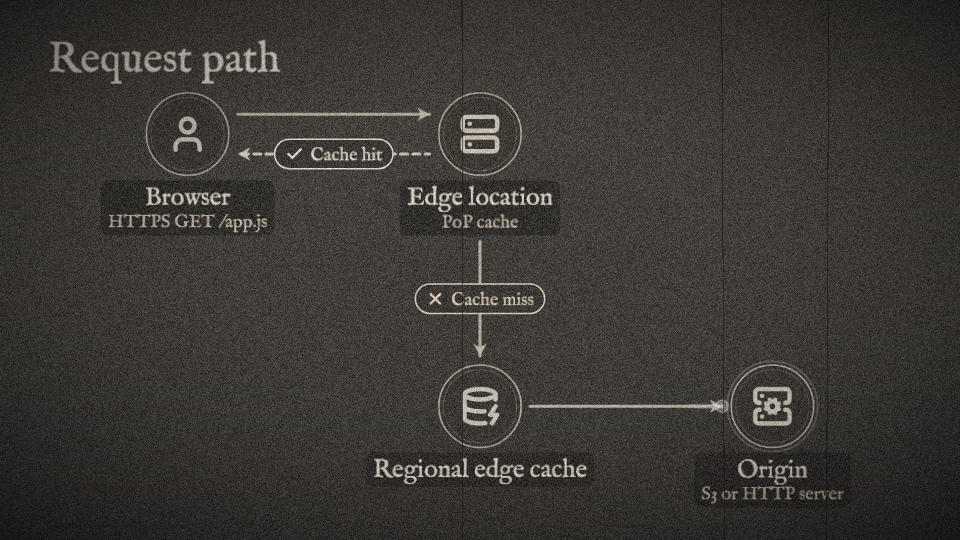
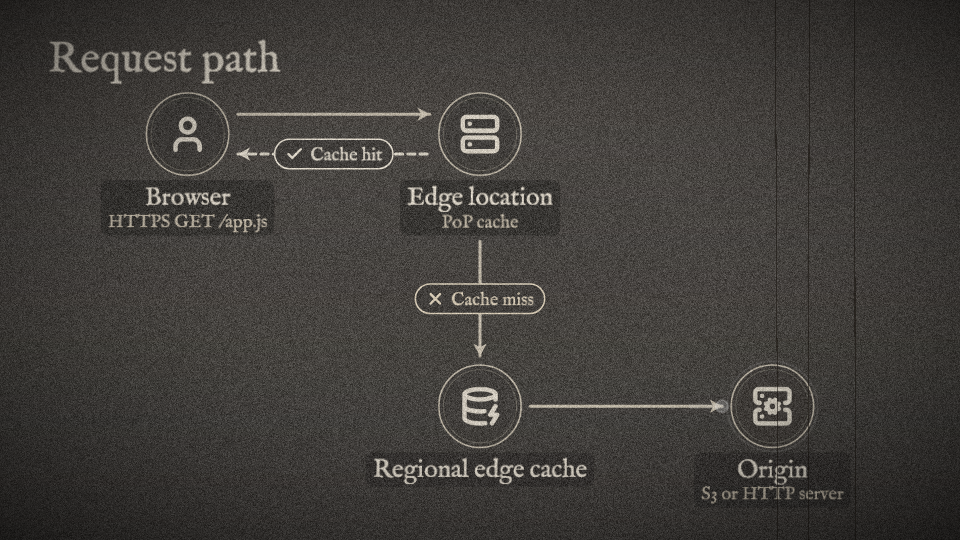
Style fixes: silent-film intertitles, tilted paper with curled corners, woodcut renamed engraving print
- Silent film: headings open each scene on a 1.5 s intertitle (black card, ornate double border, IM FELL), taken from
  the opening pause so narration stays in sync; kinetic scenes are drawn as intertitles
- Paper craft: each card tilts by up to 1.5 degrees (deterministic), with a curled-corner shadow and visible fibres
- Woodcut: carved band with gouge cuts and cut-line hatching tried; it reads as a framed engraving, not a woodcut,
  so the style is renamed engraving-print
- HD pixel sprite 3D is marked as requiring a 3D model (enforced for the Creative Director in Stage 3)

diff --git a/exposit/render/styles.py b/exposit/render/styles.py
@@ -95,7 +95,7 @@ def bg_pixel(c, W, H):
         c.drawRect(skia.Rect.MakeXYWH(x, y, 8, 8), D.paint(col("#FFF1E8" if r.random() > 0.6 else "#83769C")))
 
 
-def bg_woodcut(c, W, H):
+def bg_engraving(c, W, H):
     _bg_solid(c, "#EEE4CF", W, H)
     p = D.paint(col("#2A1F17", 0.12), 1.6)
     for i in range(-int(H), int(W), 14):                      # engraved hatching in the margins
@@ -153,9 +153,35 @@ def tex_hatch(cc, w, h):
 
 def tex_paper(cc, w, h):
     r = _rng(int(w) * 7 + int(h))
-    for _ in range(int(w * h / 900)):
+    for _ in range(int(w * h / 420)):                         # visible paper fibres
         x, y = r.random() * w, r.random() * h
-        cc.drawLine(x, y, x + r.random() * 18 - 9, y + r.random() * 6 - 3, D.paint(col("#8A7A60", 0.10), 1))
+        ang = r.random() * math.pi
+        ln = 8 + r.random() * 22
+        cc.drawLine(x, y, x + math.cos(ang) * ln, y + math.sin(ang) * ln, D.paint(col("#8A7A60", 0.20), 1.1))
+
+
+def tex_engraving(cc, w, h):
+    """Carved look: a thick ink band inside the edge with cream gouge cuts, and cut-line hatching in one corner."""
+    ink, paper = "#1A1410", "#F5EDDA"
+    band = 16
+    cc.drawRect(skia.Rect.MakeWH(w, band), D.paint(col(ink)))
+    cc.drawRect(skia.Rect.MakeXYWH(0, h - band, w, band), D.paint(col(ink)))
+    cc.drawRect(skia.Rect.MakeWH(band, h), D.paint(col(ink)))
+    cc.drawRect(skia.Rect.MakeXYWH(w - band, 0, band, h), D.paint(col(ink)))
+    r = _rng(int(w) * 3 + int(h))
+    cut = D.paint(col(paper), 2.6)
+    for x in np.arange(10, w - 10, 13):                       # gouge marks across the top and bottom bands
+        ln = 6 + r.random() * 8
+        cc.drawLine(float(x), 3, float(x + r.random() * 4 - 2), 3 + ln, cut)
+        cc.drawLine(float(x), h - 3, float(x + r.random() * 4 - 2), h - 3 - ln, cut)
+    for y in np.arange(10, h - 10, 13):
+        ln = 6 + r.random() * 8
+        cc.drawLine(3, float(y), 3 + ln, float(y + r.random() * 4 - 2), cut)
+        cc.drawLine(w - 3, float(y), w - 3 - ln, float(y + r.random() * 4 - 2), cut)
+    p = D.paint(col(ink, 0.55), 2.2)                          # cut-line hatching: curved strokes, bottom-right corner
+    for k in range(9):
+        rr = skia.Rect.MakeXYWH(w - 40 - k * 16, h - 40 - k * 14, (k + 1) * 32, (k + 1) * 28)
+        cc.drawArc(rr, 180, 90, False, p)
 
 
 def tex_cardboard(cc, w, h):
@@ -364,9 +390,12 @@ def post_process(arr: np.ndarray, ops: tuple, frame: int) -> np.ndarray:
 # ================================================================== the style packs
 class Style:
     def __init__(self, name: str, tier: int, status: str, best_for: str, tpl: Template | None, post: tuple = (),
-                 fps: int | None = None, jitter: float = 0.0, effects: tuple = (), why_planned: str = ""):
+                 fps: int | None = None, jitter: float = 0.0, effects: tuple = (), why_planned: str = "",
+                 intertitles: bool = False, requires: str | None = None):
         self.name, self.tier, self.status, self.best_for, self.tpl = name, tier, status, best_for, tpl
         self.post, self.fps, self.jitter, self.effects, self.why_planned = post, fps, jitter, effects, why_planned
+        self.intertitles = intertitles      # silent film: headings become 1.5 s intertitle cards; kinetic scenes are drawn as one
+        self.requires = requires            # offered only for videos with this content (e.g. a 3D model)
         if tpl is not None:
             tpl.style = self
 
@@ -444,10 +473,10 @@ _add(Style("pixel-art", 1, "ready", "networking basics, protocols for beginners,
                 card=_card("#29366F", "#FFF1E8", 4.0, 0), icon=dict(style="solid", color="#1D2B53", badge="#FFA300", ring="#FFF1E8", stroke=3.0, shape="square"),
                 conn=dict(color="#FFF1E8", width=8.0, active="#FFA300", glow=False, dash=(16, 16))),
            post=(("pixelate", 5, "pico8"),)))
-_add(Style("woodcut", 1, "ready", "history, principles, protocols with a long lineage",
-           _tpl("woodcut", _T("#EEE4CF", "#EEE4CF", "#F5EDDA", "#1A1410", "#1A1410", "#3E342B", "#8E1F20", red="#8E1F20", green="#2E5E2A"),
-                dark=False, bg_fn=bg_woodcut, family="IMFell", font_scale=1.12, texture=tex_hatch,
-                card=_card("#F5EDDA", "#1A1410", 3.0, 2), icon=dict(style="outline", color="#1A1410", badge=None, ring="#1A1410", stroke=2.8),
+_add(Style("engraving-print", 1, "ready", "history, principles, protocols with a long lineage",
+           _tpl("engraving-print", _T("#EEE4CF", "#EEE4CF", "#F5EDDA", "#1A1410", "#1A1410", "#3E342B", "#8E1F20", red="#8E1F20", green="#2E5E2A"),
+                dark=False, bg_fn=bg_engraving, family="IMFell", font_scale=1.12, texture=tex_engraving,
+                card=_card("#F5EDDA", "#1A1410", 6.0, 2), icon=dict(style="outline", color="#1A1410", badge=None, ring="#1A1410", stroke=3.2),
                 conn=dict(color="#1A1410", width=6.0, active="#8E1F20", glow=False, dash=(14, 10))),
            post=(("paper", 0.14), ("grain", 0.04))))
 _add(Style("silent-film", 1, "ready", "history of a technology, origin stories, 'how it used to work'",
@@ -456,11 +485,12 @@ _add(Style("silent-film", 1, "ready", "history of a technology, origin stories, 
                 dark=True, bg_fn=bg_silent, family="IMFell", font_scale=1.12,
                 card=_card("#1F1C19", "#D8CDB8", 3.0, 6), icon=dict(style="outline", color="#F2E9D8", badge=None, ring="#D8CDB8", stroke=2.6),
                 conn=dict(color="#D8CDB8", width=6.0, active="#FFFFFF", glow=False, dash=(14, 10))),
-           post=(("grain", 0.09), ("flicker", 0.07), ("scratches", 3), ("vignette", 0.6)), fps=18))   # palette is sepia already
+           post=(("grain", 0.09), ("flicker", 0.07), ("scratches", 3), ("vignette", 0.6)), fps=18,   # palette is sepia already
+           intertitles=True))
 _add(Style("paper-craft", 1, "ready", "architecture overviews, layered systems",
            _tpl("paper-craft", _T("#F4E8D8", "#F4E8D8", "#FFF8EE", "#B88B6A", "#2B211A", "#45372B", "#A63E1F", blue="#2F6F9E", teal="#2E8A7E"),
                 dark=False, bg_fn=bg_papercraft, texture=tex_paper,
-                card=_card("#FFF8EE", "#E6D2BC", 1.0, 18, shadow=0.35, shadow_color="#5A3A20"),
+                card=_card("#FFF8EE", "#E6D2BC", 1.0, 10, shadow=0.35, shadow_color="#5A3A20", tilt=1.5, curl=True),
                 icon=dict(style="pastel", color="#2B211A", badge=None, ring="#B88B6A", stroke=2.6),
                 conn=dict(color="#8C5E3C", width=6.0, active="#C24E2B", glow=False, dash=(16, 13))),
            post=(("paper", 0.08),)))
@@ -490,13 +520,47 @@ _add(Style("hd-pixel-sprite-3d", 2, "ready", "hardware and infrastructure with a
                 dark=True, bg_fn=bg_pixel, glow=True, family_bold="Pixel", bold_scale=0.6,
                 card=_card("#17204A", "#5EE2FF", 3.0, 0), icon=dict(style="solid", color="#FFFFFF", badge="#3A4C9A", ring="#5EE2FF", stroke=3.0, shape="square"),
                 conn=dict(color="#8FA2FF", width=8.0, active="#5EE2FF", glow=False, dash=(16, 16))),
-           post=(("pixelate", 4, 8),)))
+           post=(("pixelate", 4, 8),), requires="model_3d"))
 for _n, _why in (("stick-figure-story", "needs posed, rigged characters with readable gestures; a style pack alone cannot draw them"),
                  ("paper-cutout-puppet", "needs jointed cut-out characters; not built"),
                  ("hand-puppet-theatre", "needs puppet characters on a stage; a frame and curtain alone would not be honest")):
     _add(Style(_n, 2, "planned", "incidents and postmortems told as stories", None, why_planned=_why))
 
 READY = tuple(n for n, s in STYLES.items() if s.status == "ready")
+INTERTITLE_SECONDS = 1.5
+
+
+def draw_intertitle(c, tpl, text: str, W: float, H: float, a: float = 1.0, show_text: bool = True) -> None:
+    """A silent-film intertitle: a black card with an ornate thin double border and corner flourishes; the text in
+    IM FELL, centred. The card is a cached sprite; the text is drawn on top."""
+    inset = 70.0 if H > W else 150.0
+
+    def card(cc):
+        cc.drawColor(col("#0B0907"))
+        x0, y0, x1, y1 = inset, inset * (1.6 if H > W else 0.7), W - inset, H - inset * (1.6 if H > W else 0.7)
+        line = D.paint(col("#E9DFC9"), 2.2)
+        cc.drawRect(skia.Rect.MakeLTRB(x0, y0, x1, y1), line)
+        cc.drawRect(skia.Rect.MakeLTRB(x0 + 14, y0 + 14, x1 - 14, y1 - 14), D.paint(col("#E9DFC9"), 1.2))
+        for (cx, cy, sx, sy) in ((x0, y0, 1, 1), (x1, y0, -1, 1), (x0, y1, 1, -1), (x1, y1, -1, -1)):
+            p = skia.Path()                                    # a corner flourish: a small scroll and a diamond
+            p.moveTo(cx + sx * 14, cy + sy * 46)
+            p.cubicTo(cx + sx * 40, cy + sy * 46, cx + sx * 46, cy + sy * 40, cx + sx * 46, cy + sy * 14)
+            cc.drawPath(p, D.paint(col("#E9DFC9"), 2))
+            d = skia.Path()
+            d.moveTo(cx + sx * 30, cy + sy * 22); d.lineTo(cx + sx * 36, cy + sy * 30)
+            d.lineTo(cx + sx * 30, cy + sy * 38); d.lineTo(cx + sx * 24, cy + sy * 30); d.close()
+            cc.drawPath(d, D.paint(col("#E9DFC9")))
+        mid = (y0 + y1) / 2
+        for yy in (y0 + (mid - y0) * 0.35, y1 - (y1 - mid) * 0.35):   # thin rules above and below the text
+            cc.drawLine(W / 2 - 120, yy, W / 2 + 120, yy, D.paint(col("#E9DFC9"), 1.4))
+            cc.drawCircle(W / 2, yy, 4, D.paint(col("#E9DFC9")))
+    D.sprite(c, ("intertitle", int(W), int(H)), 0, 0, W, H, card, a)
+    if show_text and text:
+        rows, sz = D.fit_block(text, W - 2 * inset - 120, 4, 96 if H > W else 88, 56, "Regular")
+        total = len(rows) * sz * 1.18
+        y = H / 2 - total / 2 + sz * 0.8
+        for j, r in enumerate(rows):
+            D.draw_text(c, r, W / 2, y + j * sz * 1.18, sz, col("#F2E9D8", a), "Regular", "center")
 PLANNED = tuple(n for n, s in STYLES.items() if s.status == "planned")
 
 

diff --git a/exposit/render/engine.py b/exposit/render/engine.py
@@ -116,6 +116,11 @@ class Scene:
         self.tpl = design.template(spec.get("theme") or theme)
         self.T = self.tpl.T
         self.pad0 = float(spec.get("pad_start", 0.4))
+        st = styles.style_of(self.tpl)
+        self.intertitle = None                                 # silent film: the heading on a card before the scene
+        if st and st.intertitles and spec.get("heading") and spec.get("treatment") != "kinetic":
+            self.intertitle = spec["heading"]
+            self.pad0 = max(self.pad0, styles.INTERTITLE_SECONDS + 0.3)
         self.pad1 = float(spec.get("pad_end", 0.5))
         self.dur = self.pad0 + float(timing.get("duration", 3.0)) + self.pad1
         self.motion = float(spec.get("motion_scale", 1.0))
@@ -490,6 +495,9 @@ class Kinetic(Treatment):
         if self.portrait:
             return self.draw_portrait(c, t)
         sc, T = self.sc, self.sc.T
+        st = styles.style_of(sc.tpl)
+        if st and st.intertitles:
+            styles.draw_intertitle(c, sc.tpl, "", 1920, 1080, 1.0, False)
         ui = sc.spec.get("ui")
         y0 = 330
         if ui:
@@ -528,15 +536,19 @@ class Kinetic(Treatment):
 
     def draw_portrait(self, c, t):
         sc, T = self.sc, self.sc.T
+        st = styles.style_of(sc.tpl)
+        if st and st.intertitles:                          # silent film: kinetic scenes are intertitle cards
+            styles.draw_intertitle(c, sc.tpl, "", 1080, 1920, 1.0, False)
         ui = sc.spec.get("ui")
         lines = sc.spec.get("lines", [])
         times = [sc.cue_time(l.get("at")) or 0.0 for l in lines]
         blocks = []
-        for l in lines:                                     # each line wraps to the 940 px column
+        col_w = 780 if (st and st.intertitles) else 940      # inside the intertitle card's border
+        for l in lines:                                     # each line wraps to the column
             wt = "Bold" if l.get("accent") or l.get("brand") else "SemiBold"
-            size = design.fit_size(l["text"], 940, max(96, min(l.get("size", 120), 132)), 84, wt)
+            size = design.fit_size(l["text"], col_w, max(96, min(l.get("size", 120), 132)), 84, wt)
             f = font(size, wt)
-            blocks.append((f, size, wrap(l["text"], f, 940)))
+            blocks.append((f, size, wrap(l["text"], f, col_w)))
         total = sum(len(r) * size * 1.14 + 30 for _, size, r in blocks)
         top = 560.0 if ui else design.PORTRAIT_BAND[0]
         y = top + (design.band_bottom(self.sc) - top - total) / 2
@@ -1104,6 +1116,7 @@ def _draw_frame(canvas: skia.Canvas, tr: Treatment, t: float, w: int, h: int, ca
                 canvas.drawRoundRect(r, 12, 12, paint(col("#000000", 0.62)))
                 text(canvas, cp["text"], 960, 989, f, col("#FFFFFF"), "center")
                 break
+    _intertitle(canvas, tr, t, 1920, 1080)
     fade = min(clamp(t / 0.3) if getattr(tr, "fade_in", True) else 1.0,
                clamp((sc.dur - t) / 0.3) if getattr(tr, "fade_out", True) else 1.0)
     if fade < 1:
@@ -1184,6 +1197,7 @@ def draw_frame_portrait(canvas: skia.Canvas, tr: Treatment, t: float, w: int, h:
                 for j, row in enumerate(rows):
                     text(canvas, row, 540, r.top() + 60 + j * 58, f, col("#FFFFFF"), "center")
                 break
+    _intertitle(canvas, tr, t, 1080, 1920)
     fade = min(clamp(t / 0.3) if getattr(tr, "fade_in", True) else 1.0,
                clamp((sc.dur - t) / 0.3) if getattr(tr, "fade_out", True) else 1.0)
     if fade < 1:
@@ -1452,3 +1466,15 @@ def _effects_after_stage(canvas, tr, t: float, W: float, H: float) -> None:
 def _effects_after(canvas, tr, t: float, W: float, H: float) -> None:
     if motion.wrapper_spec(tr.sc.spec, "pinned_heading") and tr.sc.spec.get("heading"):
         motion.heading_mask(canvas, tr.sc.tpl, W, design.content_top(tr.sc.spec, tr.portrait) - 10)
+
+
+def _intertitle(canvas, tr, t: float, W: float, H: float) -> None:
+    """Silent film: the scene's heading as a 1.5 s intertitle in its opening pause, dissolving into the scene."""
+    text = getattr(tr.sc, "intertitle", None)
+    if not text:
+        return
+    end = styles.INTERTITLE_SECONDS
+    if t >= end + 0.3:
+        return
+    a = 1.0 if t < end else 1 - (t - end) / 0.3
+    styles.draw_intertitle(canvas, tr.sc.tpl, text, W, H, a)

diff --git a/exposit/render/design.py b/exposit/render/design.py
@@ -653,6 +653,27 @@ def _paint_background(c, tpl: Template, W, H):
 # ------------------------------------------------------------------ cards, badges, chips, legends
 def card(c, tpl: Template, x: float, y: float, w: float, h: float, a: float = 1.0, hl: float = 0.0, dim: float = 0.0,
          radius: float | None = None, seed: int = 0, accent: str | None = None, fill: str | None = None) -> None:
+    """A card; on templates with "tilt" (paper craft) it sits at a small deterministic angle with a curled corner."""
+    tilt = tpl.card.get("tilt")
+    if not tilt or a <= 0.01:
+        return _card(c, tpl, x, y, w, h, a, hl, dim, radius, seed, accent, fill)
+    k = (math.sin((round(x) * 12.9898 + round(y) * 78.233 + seed * 3.17)) * 43758.5453) % 1.0
+    ang = (k * 2 - 1) * tilt
+    c.save()
+    c.rotate(ang, x + w / 2, y + h / 2)
+    _card(c, tpl, x, y, w, h, a, hl, dim, radius, seed, accent, fill)
+    if tpl.card.get("curl"):                               # a lifted corner: its shadow, then the folded flap
+        s = min(46.0, w * 0.12, h * 0.25)
+        soft_shadow(c, x + w - s * 0.9, y + h - s * 0.6, s * 0.9, s * 0.5, 6, "#3A2410", 0.35 * a, 6)
+        flap = skia.Path()
+        flap.moveTo(x + w - s, y + h); flap.lineTo(x + w, y + h - s); flap.lineTo(x + w - s * 0.82, y + h - s * 0.82); flap.close()
+        c.drawPath(flap, paint(col(mix(tpl.card["fill"], "#C9AC8C", 0.55), a)))
+        c.drawPath(flap, paint(col("#B08D6B", 0.6 * a), 1))
+    c.restore()
+
+
+def _card(c, tpl: Template, x: float, y: float, w: float, h: float, a: float = 1.0, hl: float = 0.0, dim: float = 0.0,
+          radius: float | None = None, seed: int = 0, accent: str | None = None, fill: str | None = None) -> None:
     """A card in the template's style. `hl` (0..1) glows or tints it as the focus; `dim` fades the rest a little
     (never so far that text on it loses contrast)."""
     if a <= 0.01:

diff --git a/exposit/assets/LICENSES.md b/exposit/assets/LICENSES.md
@@ -11,7 +11,7 @@ appears in the lists below.
 | Kubernetes icons (unlabeled) | kubernetes/community, master, fetched 2026-11-20 | https://github.com/kubernetes/community/tree/master/icons/svg (resources/unlabeled, infrastructure_components/unlabeled) | CC-BY-4.0 (the set is offered under Apache-2.0 or CC-BY-4.0). Attribution: "Kubernetes icons by the Kubernetes Authors, CC-BY-4.0". The Kubernetes logo is a Linux Foundation trademark and is **not** used | The SVG files in `icons/k8s/`, recoloured at render time; labels are drawn by our renderer |
 | World map | world-atlas 2.0.2, land-110m.json | https://unpkg.com/world-atlas@2.0.2/land-110m.json | Packaging ISC, © 2013-2019 Michael Bostock (`licenses/LICENSE-world-atlas.txt`). Data: Natural Earth 1:110m land, public domain ("No permission is needed to use Natural Earth", https://www.naturalearthdata.com/about/terms-of-use/) | `map/land-110m.json`, converted once by `scripts/build_map_asset.py` into land rings and a halftone dot grid |
 | Caveat | Variable font, google/fonts main, fetched 2026-11-20 | https://raw.githubusercontent.com/google/fonts/main/ofl/caveat/Caveat%5Bwght%5D.ttf | SIL Open Font License 1.1, © 2014 The Caveat Project Authors (`fonts/OFL-Caveat.txt`) | `fonts/Caveat-Variable.ttf`, labels in the "sketch" template |
-| IM FELL English | google/fonts main, fetched 2026-11-22 | https://github.com/google/fonts/tree/main/ofl/imfellenglish | SIL Open Font License 1.1, © 2010 Igino Marini (`fonts/OFL-IMFellEnglish.txt`) | `fonts/IMFellEnglish-Regular.ttf`, titles in the woodcut and silent-film styles |
+| IM FELL English | google/fonts main, fetched 2026-11-22 | https://github.com/google/fonts/tree/main/ofl/imfellenglish | SIL Open Font License 1.1, © 2010 Igino Marini (`fonts/OFL-IMFellEnglish.txt`) | `fonts/IMFellEnglish-Regular.ttf`, titles in the engraving-print and silent-film styles |
 | Press Start 2P | google/fonts main, fetched 2026-11-22 | https://github.com/google/fonts/tree/main/ofl/pressstart2p | SIL Open Font License 1.1, © 2012 The Press Start 2P Project Authors, Reserved Font Name "Press Start 2P" (`fonts/OFL-PressStart2P.txt`) | `fonts/PressStart2P-Regular.ttf`, headings in the pixel-art styles |
 | Inter | as shipped in 0.1.0 | https://github.com/rsms/inter | SIL Open Font License 1.1 (`fonts/OFL-Inter.txt`) | `fonts/Inter-*.otf`, all interface text |
 | JetBrains Mono | as shipped in 0.1.0 | https://github.com/JetBrains/JetBrainsMono | SIL Open Font License 1.1 (`fonts/OFL-JetBrainsMono.txt`) | `fonts/JetBrainsMono-Regular.ttf`, code and blueprint labels |

diff --git a/docs/FEATURE-STATUS.md b/docs/FEATURE-STATUS.md
@@ -71,7 +71,7 @@ Last updated 17 November 2026 (9:16 vertical added). Every line says what was ac
 | Hit versus miss (framed middle tier, check and x chips, dashed returns, benefits footer) | Tested | The footer is dropped in 9:16 when the band is too short |
 | Stat (one sourced number that counts up) | Tested | |
 | Motion effects (10): parallax, pinned heading, 3D card zoom, line-by-line reveal, sideways text, card arc carousel, low-poly 3D models (server rack, cube, globe with Natural Earth land, database), stacking cards, focus frame, terminal scroll demo | Tested | Own software 3D (projected quads and triangles, flat shading, depth sort). Cards on the arc use an affine fit of the projected quad (no true foreshortening) because projective image draws are slow on this CPU renderer. All under 80 ms per frame at 1080p |
-| Animation styles, Tier 1 (12): whiteboard, sketchnote, minimal counter story, limited animation (12 fps feel), low-poly neon, dark pixel grunge, pixel art, woodcut print, silent film (18 fps feel), paper craft, coloured shadow puppetry, cardboard diorama | Tested | Style packs: palette, fonts, procedural background and card texture, badge style, frame-rate feel, jitter, default effects and a post-process chain. Every ready style passes the 30 px and 4.5:1 text checks on all gallery scenes; all under 55 ms per frame at 1080p. Textures are procedural; fonts are OFL (IM FELL English and Press Start 2P added) |
+| Animation styles, Tier 1 (12): whiteboard, sketchnote, minimal counter story, limited animation (12 fps feel), low-poly neon, dark pixel grunge, pixel art, engraving print, silent film (18 fps feel), paper craft, coloured shadow puppetry, cardboard diorama | Tested | Style packs: palette, fonts, procedural background and card texture, badge style, frame-rate feel, jitter, default effects and a post-process chain. Every ready style passes the 30 px and 4.5:1 text checks on all gallery scenes; all under 55 ms per frame at 1080p. Textures are procedural; fonts are OFL (IM FELL English and Press Start 2P added) |
 | Animation styles, Tier 2: stop-motion clay, HD pixel sprite 3D | Tested | Simplified versions: clay is rounded shapes, 12 fps holds, frame jitter and a fingerprint texture; pixel sprite 3D is a pixelated, posterised render |
 | Animation styles, Tier 2: stick figure story, paper cut-out puppet, hand puppet theatre | Planned | They need posed, rigged characters; a palette and texture alone would not be honest. Not offered to the AI roles |
 | Kinetic typography | Tested | |
